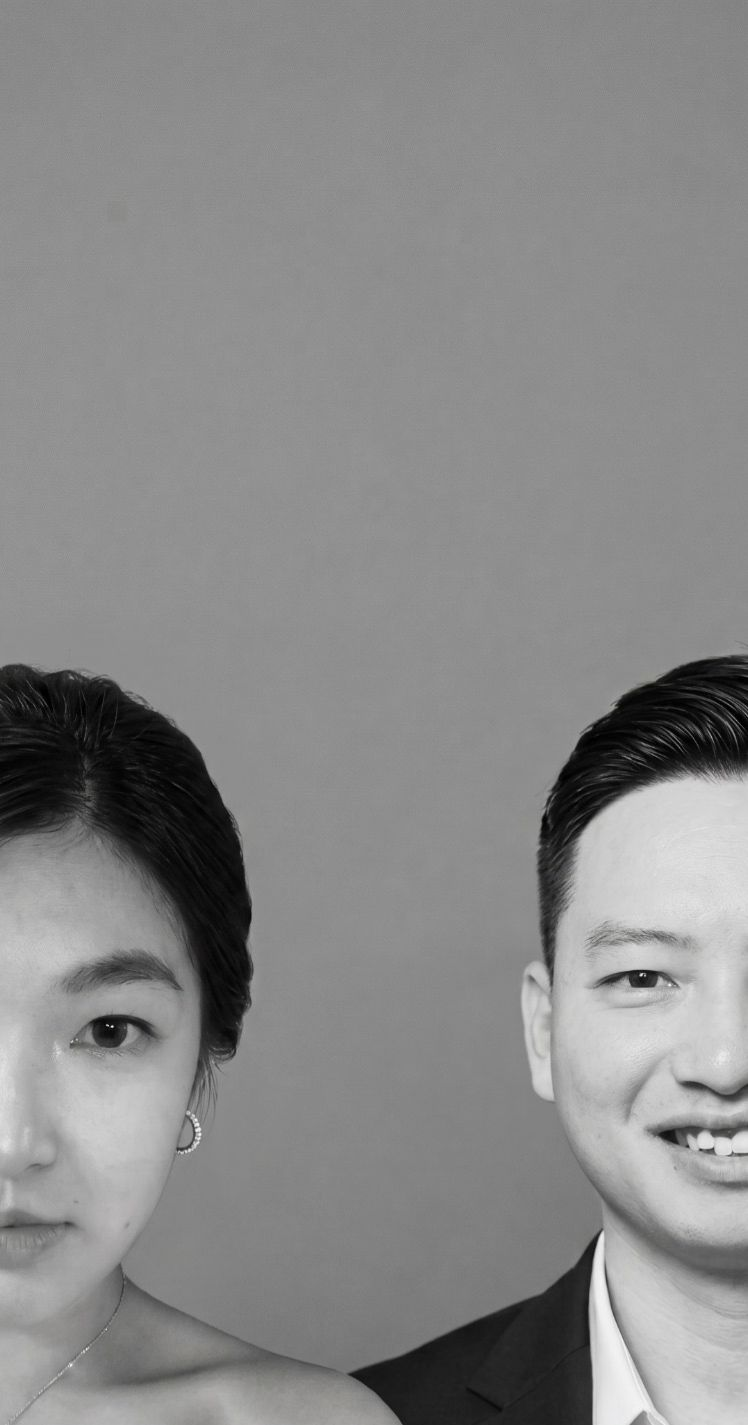
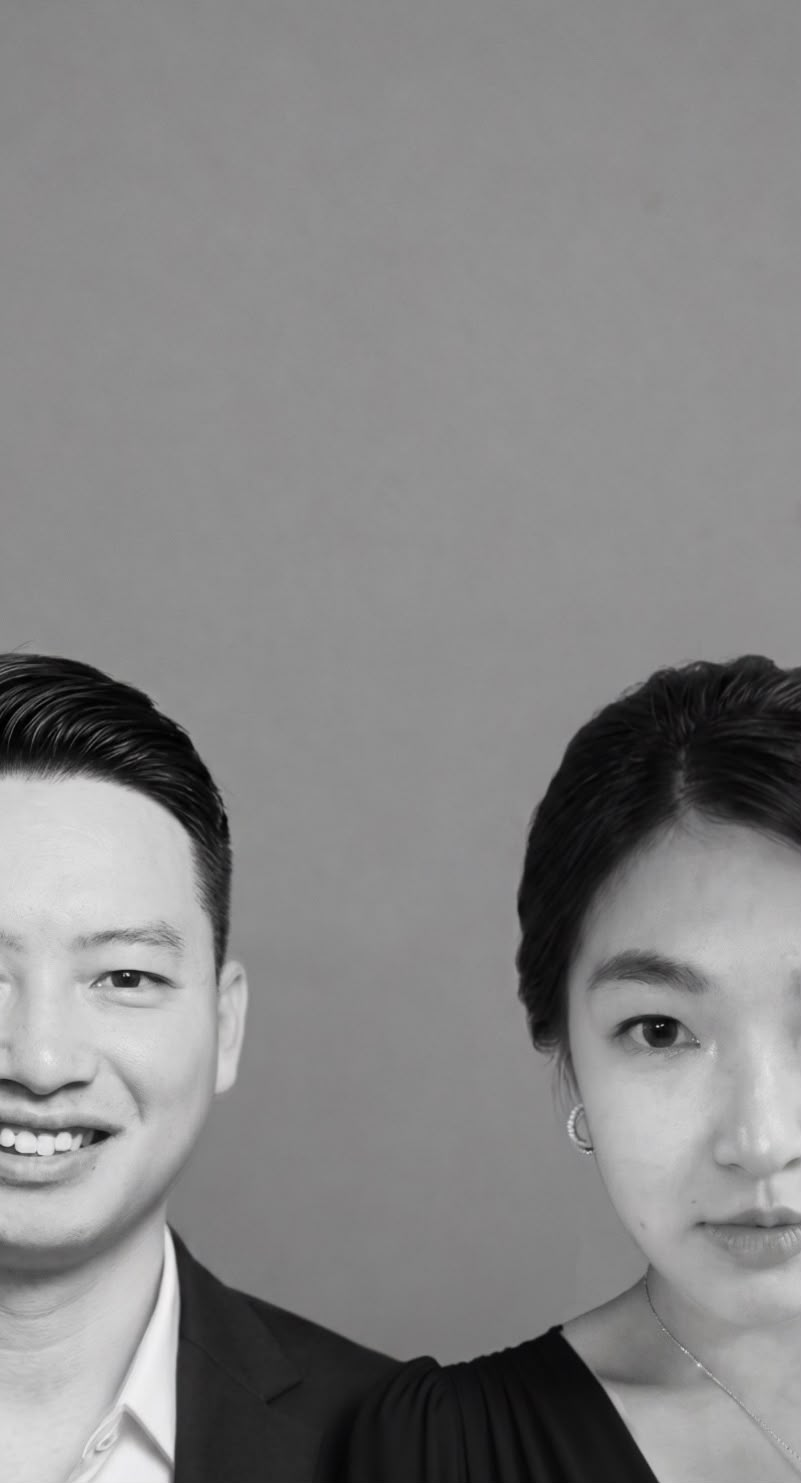
fix: correct venue name typo and update gift section casing with new background asset

Changed region(s): [[0.0, 0.4323, 1.0, 1.0]]

diff --git a/index.html b/index.html
@@ -109,7 +109,7 @@
 
                     <p
                         class="font-sans text-xs md:text-sm tracking-wider leading-loose text-dark mb-12 uppercase max-w-sm">
-                        THE CEREMONY WILL TAKE PLACE ON <b>LOXOTIC PRIVATE RESORT</b>,<br>
+                        THE CEREMONY WILL TAKE PLACE ON <b>LUXOTIC PRIVATE RESORT</b>,<br>
                         TAMAN RIA STREET, BENOA, SOUTH KUTA DISTRICT, BADUNG<br>
                         REGENCY, BALI, Indonesia <b>AT 3PM</b>
                     </p>
@@ -121,7 +121,7 @@
 
                 <!-- Gift Column -->
                 <div class="flex-1 md:pl-12 flex flex-col">
-                    <h2 class="font-sans text-sm md:text-base tracking-[0.1em] text-dark mb-10 text-center w-full">Gift
+                    <h2 class="font-sans text-sm md:text-base tracking-[0.1em] text-dark mb-10 text-center w-full">GIFT
                     </h2>
 
                     <p